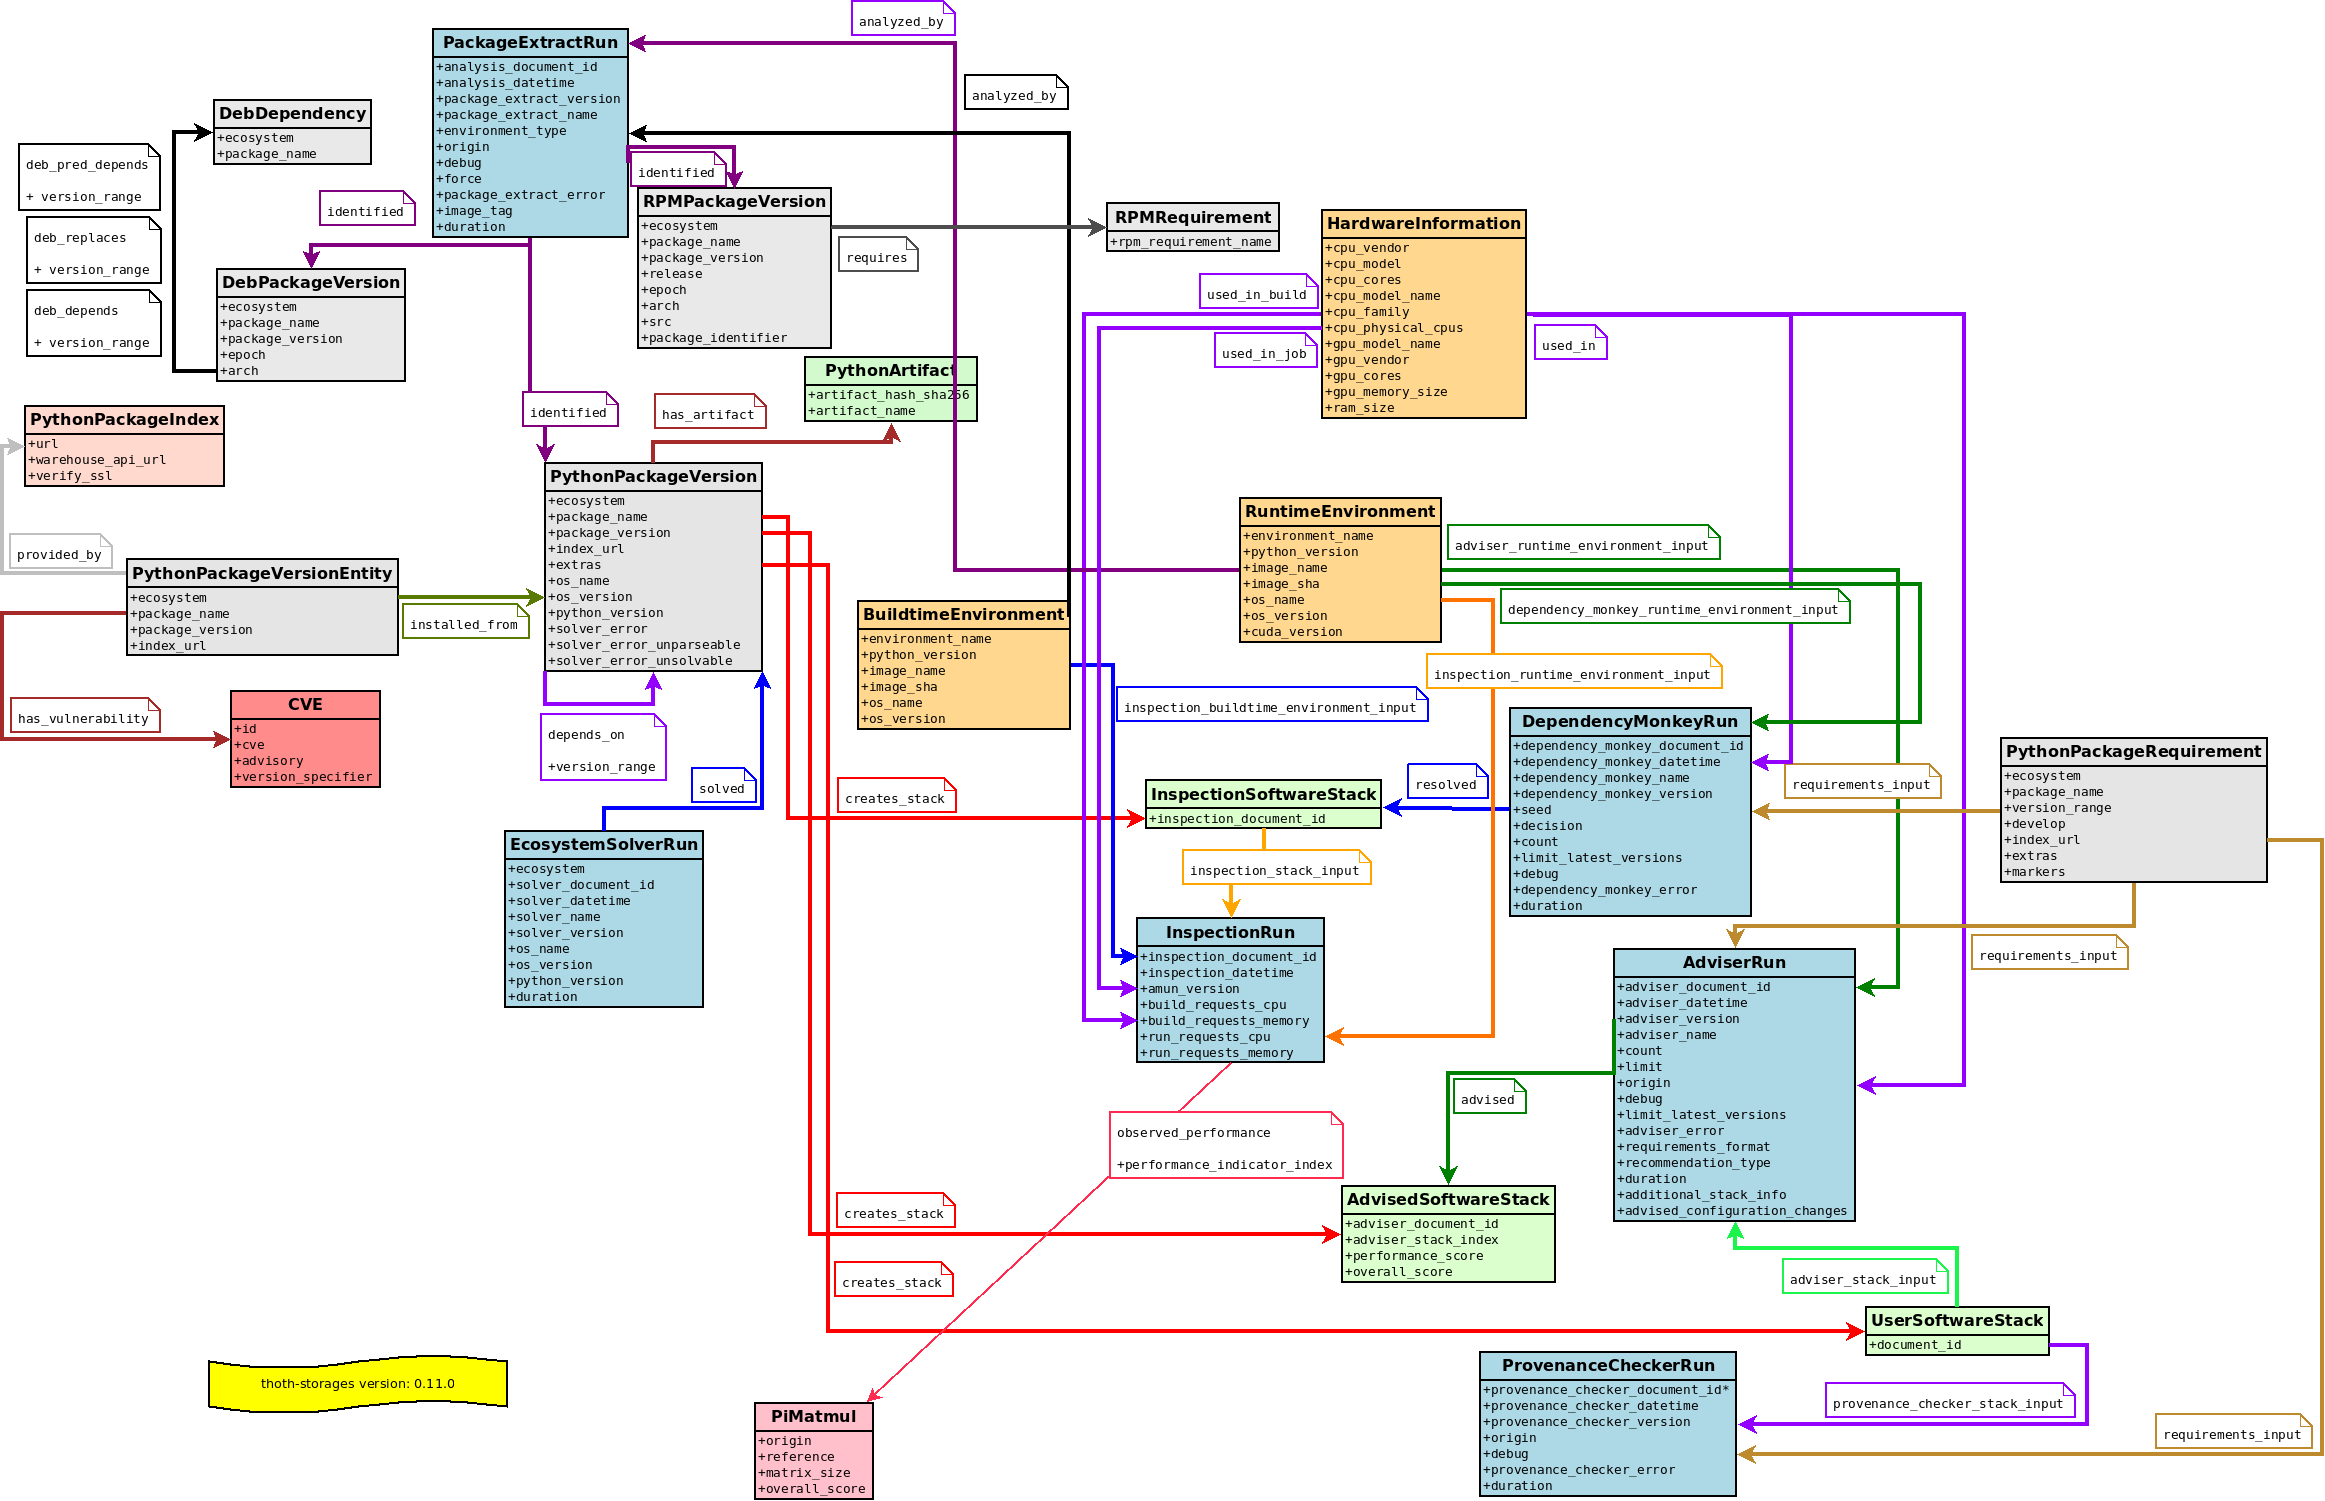
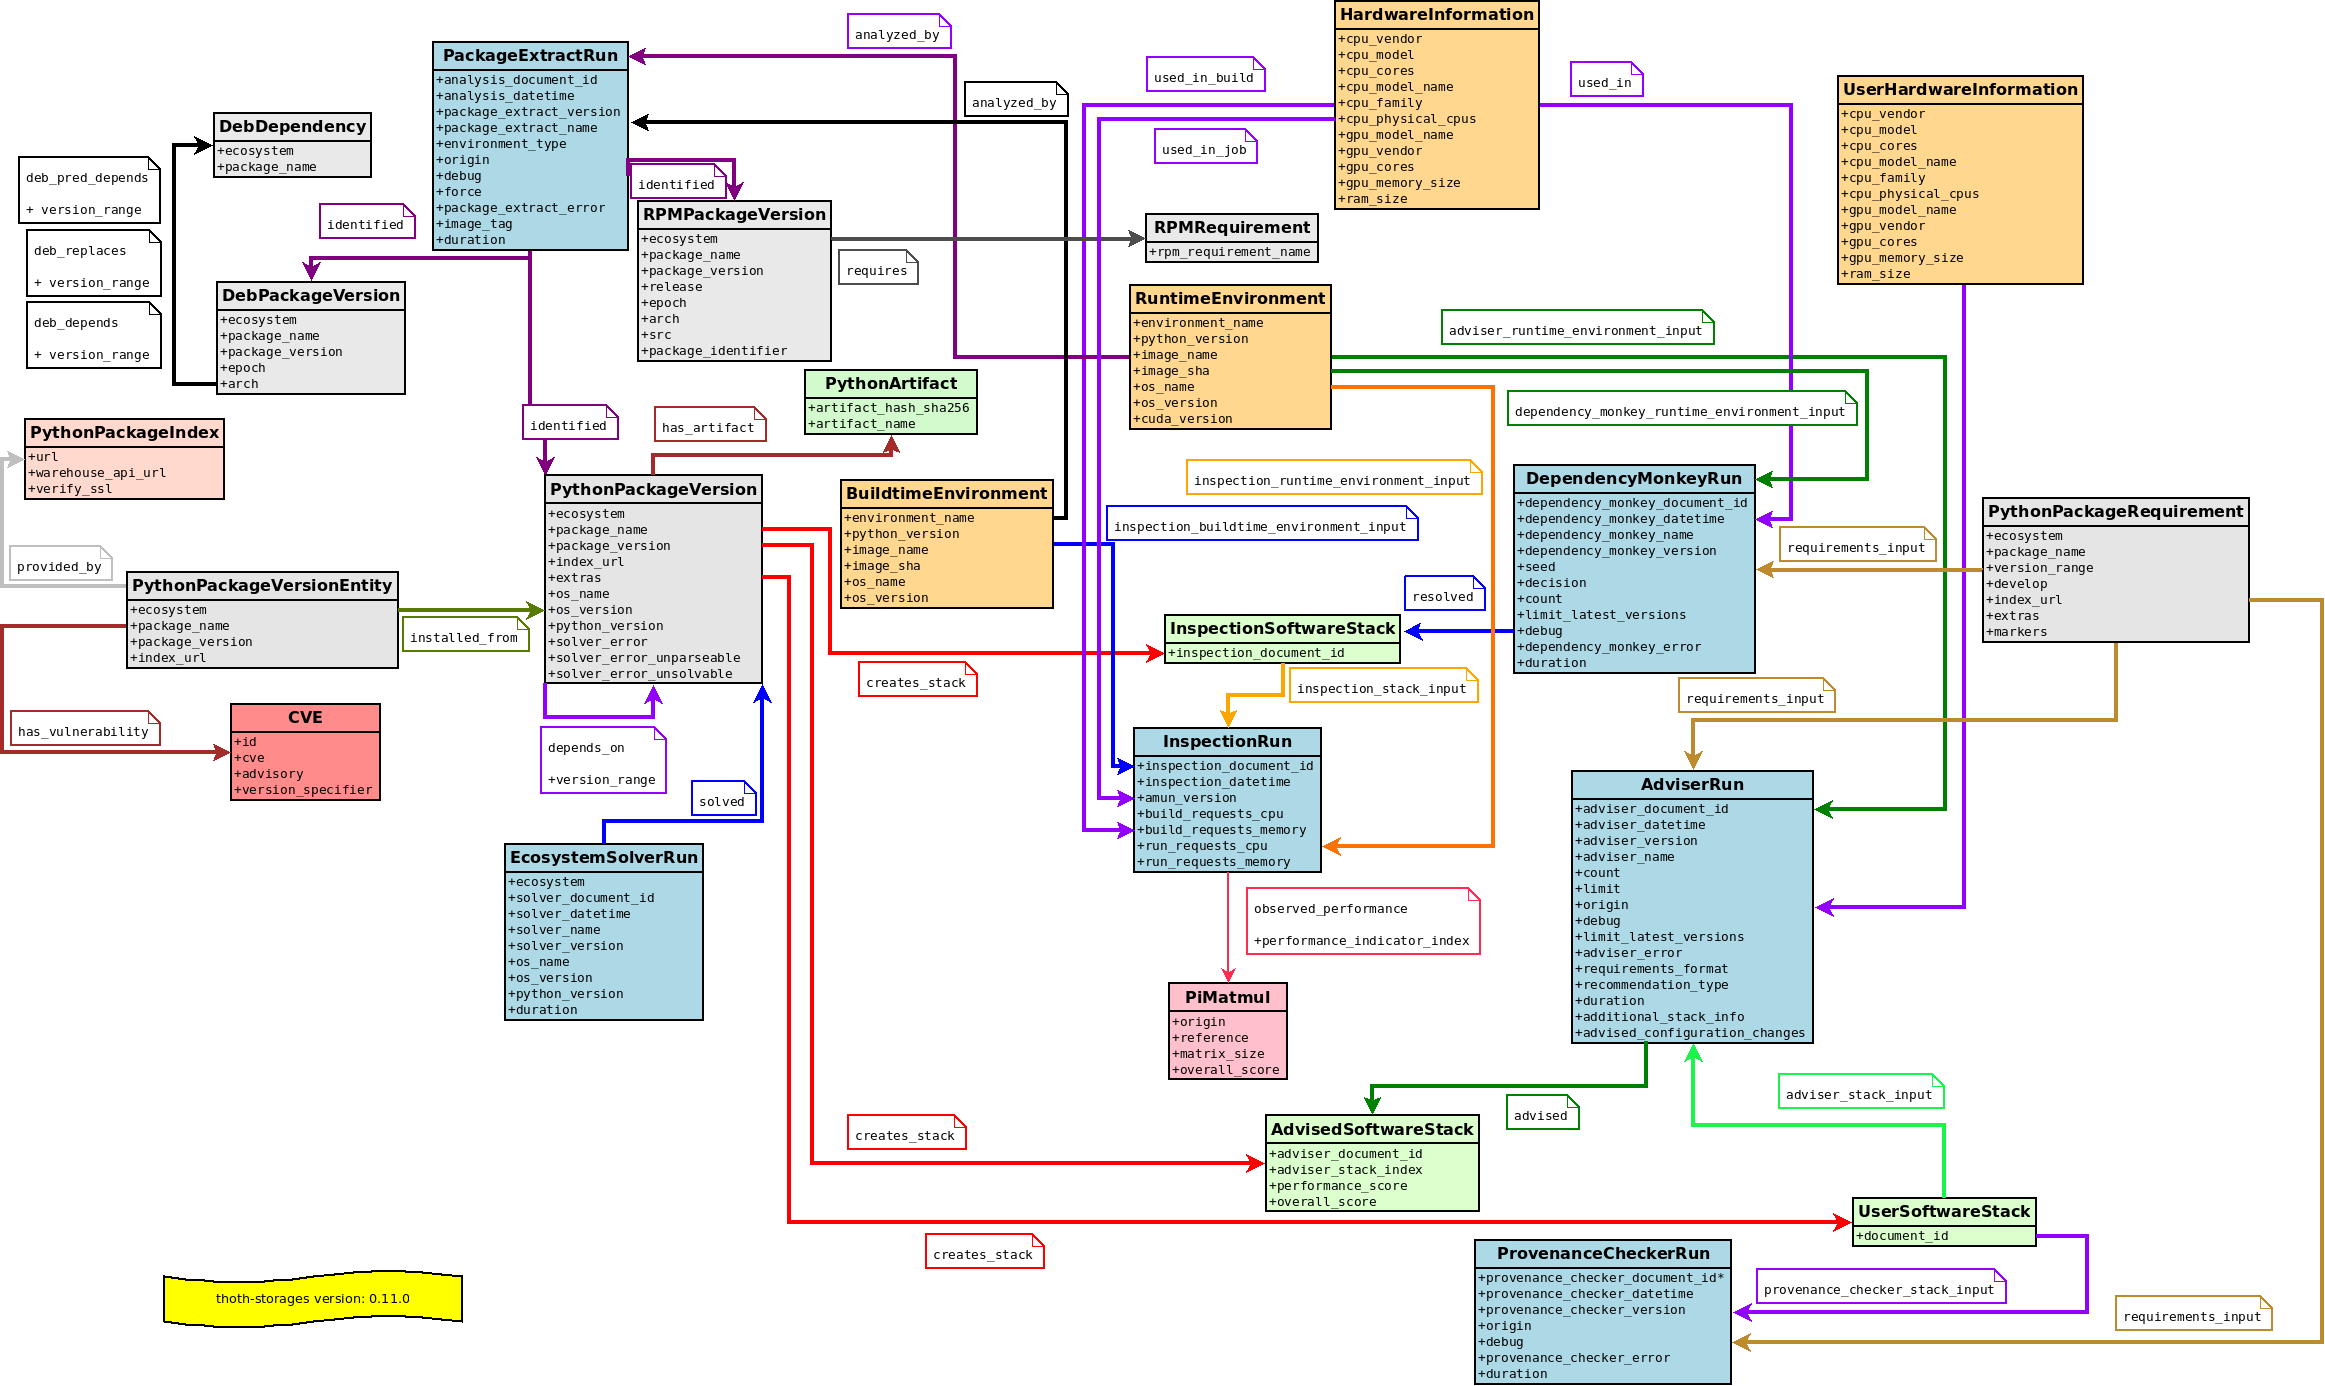
New UserHardwareInformation entity

Changed region(s): [[0.0, 0.0, 1.0, 1.0], [0.0619, 0.8997, 0.2168, 0.9618], [0.3097, 0.9307, 0.4026, 1.0]]

diff --git a/thoth/storages/graph/dgraph.py b/thoth/storages/graph/dgraph.py
@@ -70,6 +70,7 @@ from .models import DependsOn
 from .models import EcosystemSolverRun
 from .models import EnvironmentBase
 from .models import HardwareInformation as HardwareInformationModel
+from .models import UserHardwareInformation
 from .models import HasArtifact
 from .models import HasVulnerability
 from .models import Identified
@@ -2051,11 +2052,16 @@ class GraphDatabase(StorageBase):
 
     @staticmethod
     def _runtime_environment_conf2models(
-        runtime_properties: dict
+        runtime_properties: dict, is_user_run: bool=False
     ) -> Tuple[HardwareInformationModel, RuntimeEnvironmentModel]:
         """Convert runtime environment configuration into model representatives."""
         hardware_properties = runtime_properties.pop("hardware", {})
-        hardware_information = HardwareInformationModel.from_properties(**hardware_properties)
+
+        if is_user_run:
+            hardware_information = UserHardwareInformation.from_properties(**hardware_properties)
+
+        else:
+            hardware_information = HardwareInformationModel.from_properties(**hardware_properties)
 
         runtime_environment_config = RuntimeEnvironmentConfig.from_dict(runtime_properties)
         # We construct our own name as we do not trust user's name input (it can be basically anything).
@@ -2107,7 +2113,7 @@ class GraphDatabase(StorageBase):
 
         # Hardware information.
         hardware_information, runtime_environment = self._runtime_environment_conf2models(
-            document["result"]["parameters"]["runtime_environment"]
+            document["result"]["parameters"]["runtime_environment"], is_user_run=True
         )
         hardware_information.get_or_create(self.client)
         runtime_environment.get_or_create(self.client)

diff --git a/thoth/storages/graph/models.py b/thoth/storages/graph/models.py
@@ -445,6 +445,11 @@ class HardwareInformation(VertexBase):
 
 
 @attr.s(slots=True)
+class UserHardwareInformation(HardwareInformation):
+    """Hardware specification and properties as used by a user (input for the recommendation engine)."""
+
+
+@attr.s(slots=True)
 class UsedIn(ReverseEdgeBase):
     """Information about hardware used when running/checking a stack."""
 
@@ -566,5 +571,6 @@ ALL_MODELS = frozenset(
         UsedInBuild,
         UsedInJob,
         UserSoftwareStack,
+        UserHardwareInformation,
     )
 )
